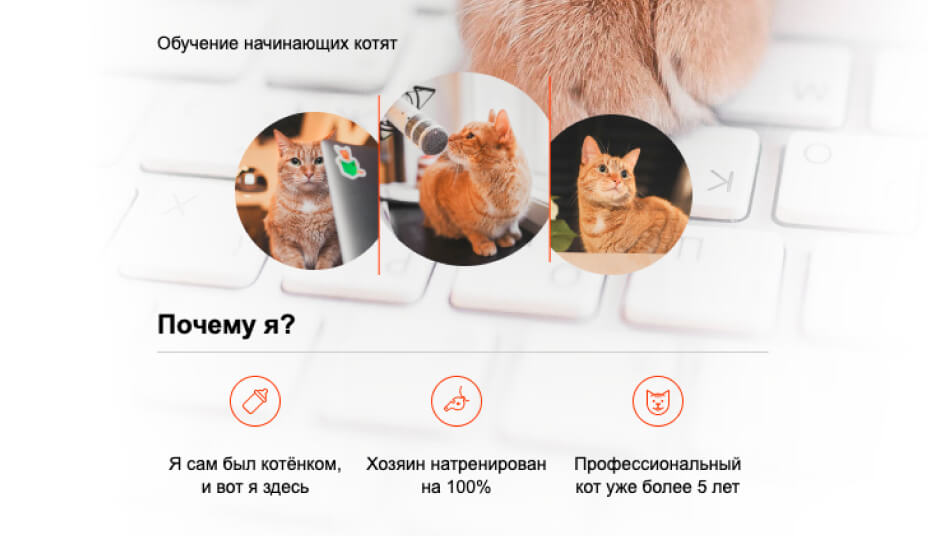
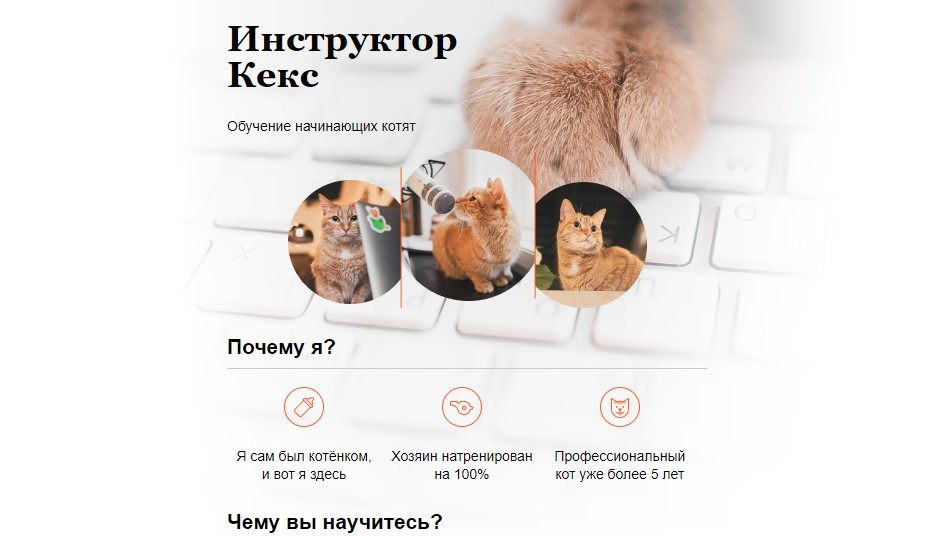
Добавляет изображение автора и примера сайта, исправляет положение кнопки "Открыть сайт" и делает ссылку на сайт рабочей

diff --git a/source/project/index.html b/source/project/index.html
@@ -1,0 +1,40 @@
+<!DOCTYPE html>
+<html lang="ru">
+  <head>
+    <meta charset="utf-8">
+    <title>Инструктор Кекс</title>
+    <link rel="stylesheet" href="style.css">
+  </head>
+  <body>
+    <div class="container">
+      <header class="site-header">
+        <h1>Инструктор Кекс</h1>
+        <p>Обучение начинающих котят</p>
+        <img src="img/keks.png">
+      </header>
+
+      <section class="features">
+        <h2>Почему я?</h2>
+        <p class="feature-kitten">Я сам был котёнком, и вот я здесь</p>
+        <p class="feature-train">Хозяин натренирован на 100%</p>
+        <p class="feature-cat">Профессиональный кот уже более 5 лет</p>
+      </section>
+
+      <section class="skills">
+        <h2>Чему вы научитесь?</h2>
+        <ul class="skills-list">
+          <li class="skills-item">таскать еду из хозяйской тарелки;</li>
+          <li class="skills-item standart">придавать мебели винтажный стиль;</li>
+          <li class="skills-item standart">открывать дверь и не входить;</li>
+          <li class="skills-item vip">будить хозяина ночью;</li>
+          <li class="skills-item vip">разбрасывать шерсть по квартире.</li>
+        </ul>
+      </section>
+
+      <footer class="site-footer">
+        <p>© Кекс, 2018</p>
+        <p>Контактов нет, я сам вас найду</p>
+      </footer>
+    </div>
+  </body>
+</html>

diff --git a/source/project/style.css b/source/project/style.css
@@ -1,0 +1,93 @@
+body {
+  padding: 0;
+  font-family: "Arial", sans-serif;
+  font-size: 14px;
+  line-height: 18px;
+  color: #000000;
+  background: #ffffff url("img/keks-background.jpg") no-repeat 50% 0;
+}
+
+h1 {
+  width: 260px;
+  font-family: "Georgia", serif;
+  font-size: 36px;
+  line-height: 36px;
+}
+
+h2 {
+  padding-bottom: 12px;
+  border-bottom: 1px solid #cccccc;
+}
+
+.site-header {
+  margin-bottom: 30px;
+}
+
+.skills-item {
+  margin-bottom: 15px;
+  padding-left: 20px;
+  border-left: 10px solid #c4c4c4;
+  color: #999999;
+}
+
+.standart {
+  border-color: #ffc5b3;
+  color: #666666;
+}
+
+/* Добавьте правило ниже */
+
+.vip {
+  border-color: #ff5a26;
+  color: #000000;
+}
+
+.container {
+  width: 480px;
+  margin: 0 auto;
+}
+
+.site-header img {
+  display: block;
+  margin: 0 auto;
+}
+
+.features {
+  margin-bottom: 30px;
+}
+
+.features p {
+  display: inline-block;
+  vertical-align: top;
+  width: 30%;
+  margin: 0 5px;
+  text-align: center;
+  background-repeat: no-repeat;
+  background-position: center top;
+}
+
+.feature-kitten {
+  padding-top: 60px;
+  background-image: url("img/bottle.svg");
+}
+
+.feature-cat {
+  padding-top: 60px;
+  background-image: url("img/cat.svg");
+}
+
+.feature-train {
+  padding-top: 60px;
+  background-image: url("img/whistle.svg");
+}
+
+.skills-list {
+  padding: 0;
+  list-style: none;
+}
+
+.site-footer {
+  display: flex;
+  justify-content: space-between;
+  color: #999999;
+}

diff --git a/index.html b/index.html
@@ -28,7 +28,7 @@
        <h2 class="subheading">Давайте познакомимся</h2>
        <h3>Меня зовут Павел</h3>
        <figure class="user-image">
-        <img src="files/user.jpg" width="928" height="536" alt="Фотография Крсулина Павла">
+        <img src="files/user.jpg" width="928" alt="Фотография Крсулина Павла">
        </figure>
        <p>Я начинающий верстальщик</p>
        <h3>Занимаюсь версткой</h3>
@@ -50,8 +50,8 @@
         <img src="files/project.jpg" width="928" height="536" alt="Cайт инструктора Кекса">
        </figure>
        <h3>Сайт инструктора Кекса</h3>
-       <p>Мой первый сайт</p>
-       <a href="source/project/index.html" class="button">Открыть страницу</a>
+       <p>Мой первый сайт<a href="source/project/index.html" class="button">Открыть страницу</a></p>
+       
        <h3>Блог начинающего верстальщика</h3>
        <p>Статический блог про обучение HTML и CSS.</p>
       </div> 

diff --git a/style.css b/style.css
@@ -156,6 +156,7 @@ body {
 
 .button {
   padding: 6px 20px;
+  margin-left: 15px;
   display: inline-block;
   vertical-align: baseline;
   text-decoration: none;
